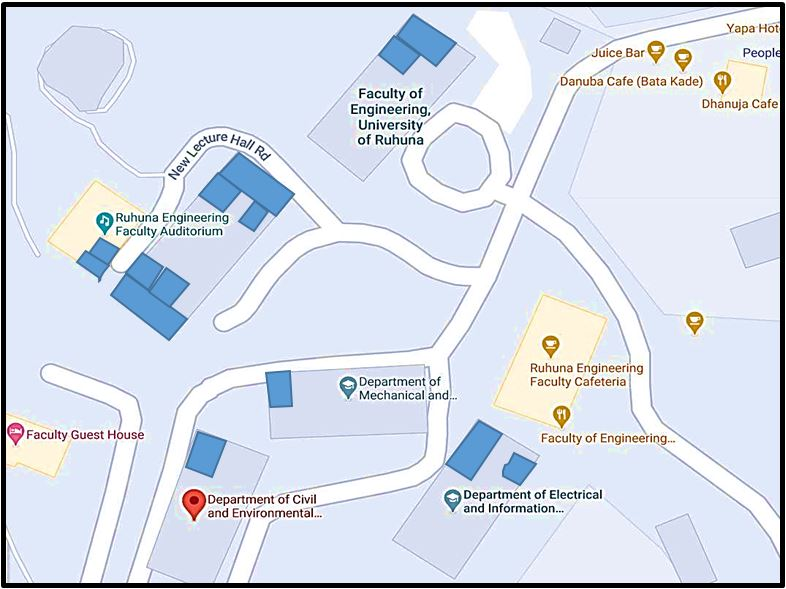
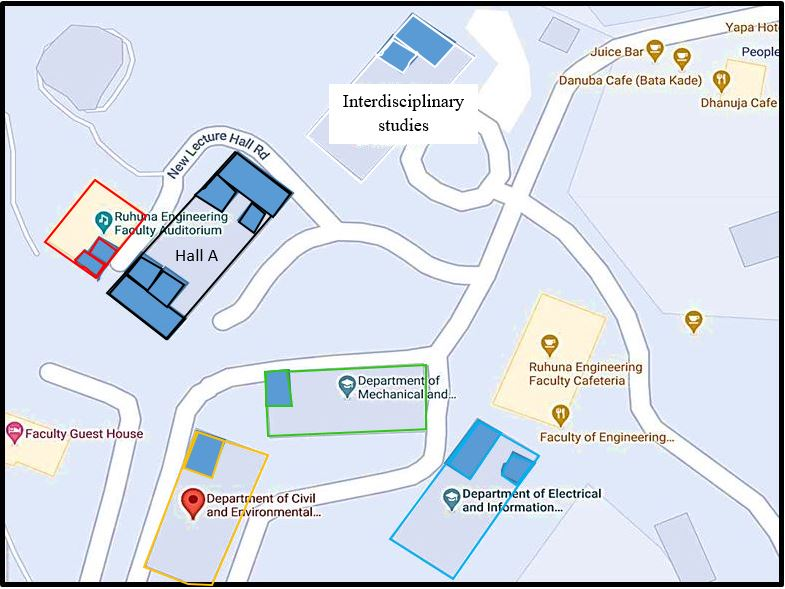
update map2

diff --git a/src/components/Index.js b/src/components/Index.js
@@ -1,40 +1,22 @@
-import React from 'react';
+import React, { Component } from 'react';
 import map from './../images/map.jpg';
 import {Nav} from "./Nav";
-// import $ from 'jquery';
-import Register from "./Register";
+import { Row, Col } from "reactstrap";
+import {dark} from "@material-ui/core/styles/createPalette";
+
 
 function Index() {
-    // const highLight=()=>{
-    //     $('.map').maphilight({
-    //         fillColor: '008800'
-    //     });
-    //     $('#hilightlink').mouseover(function(e) {
-    //         $('#square2').mouseover();
-    //     }).mouseout(function(e) {
-    //         $('#square2').mouseout();
-    //     }).click(function(e) { e.preventDefault(); });
-    //     $('#starlink').click(function(e) {
-    //         e.preventDefault();
-    //         let data = $('#star').data('maphilight') || {};
-    //         data.neverOn = !data.neverOn;
-    //         $('#star').data('maphilight', data);
-    //     });
-    //     $('#star,#starlink2').click(function(e) {
-    //         e.preventDefault();
-    //         let data = $('#star').mouseout().data('maphilight') || {};
-    //         data.alwaysOn = !data.alwaysOn;
-    //         $('#star').data('maphilight', data).trigger('alwaysOn.maphilight');
-    // });
+
 
     return (
         <div >
             <Nav />
             <h1  align="center" >Lecture halls </h1>
-            <img src={map}  align="right"  id='map' useMap="#image-map" alt="map" />
+            <img src={map}  align="right"  id='map' class="map" useMap="#image-map" alt="map" />
 
             <map id="Map-area" name="image-map" >
-                <area  id="1" target=""  alt="NLH1-Ground floor"  title="NLH1-Ground floor" href="" coords="75,261,83,248,107,265,98,275" shape="poly"/>
+
+                <area  id="1" target="" alt="NLH1-Ground floor" title="NLH1-Ground floor" href="" coords="75,261,83,248,107,265,98,275" shape="poly"/>
                 <area id="2"  target="" alt="NLH2-Ground floor" title="NLH2-Ground floor" href="" coords="88,253,99,236,118,251,107,263" shape="poly"/>
                 <area id="3" target="" alt="DO1-Second floor" title="DO1-Second floor" href="" coords="126,272,140,252,163,266,148,288" shape="poly"/>
                 <area id="4" target="" alt="DO2-Second floor" title="DO2-Second floor" href="" coords="200,194,216,172,243,190,225,214" shape="poly"/>
@@ -49,26 +31,34 @@ function Index() {
                 <area id="13" target="" alt="CLR-Third floor" title="CLR-Third floor" href="" coords="184,464,210,478,227,442,199,431" shape="poly"/>
 
             </map>
-            <h4  >View the lecture halls on the map</h4>
-            <ol >
-
-                <p>NLH1-Ground floor <button >view</button></p>
-                <p>NLH2-Ground floor <button >view</button> </p>
-                <p>DO1-Second floor  <button>view</button> </p>
-                <p>DO2-Second floor  <button>view</button> </p>
-                <p>LR1-first floor   <button>view</button> </p>
-                <p>LR2-first floor   <button>view</button> </p>
-                <p>LT1-first floor   <button>view</button> </p>
-                <p>LT2-first floor   <button>view</button> </p>
-                <p>IS-Seminar room   <button>view</button> </p>
-                <p>ELR-Third floor   <button>view</button> </p>
-                <p>ELT-second floor  <button>view</button> </p>
-                <p>MLR-Third         <button>view</button> </p>
-                <p>CLR-Third floor   <button>view</button> </p>
 
 
-            </ol>
-        </div>
+<row >
+    <Col sm={4}  >
+    <div className=" text-left border rounded" color="text-danger">
+        <h6></h6>
+        <p align="center"><ins>FACULTY AUDITORIUM</ins></p>
+        <h6 className="text-danger">*NLH1-Ground floor</h6>
+        <h6 className="text-danger">*NLH2-Ground floor</h6>
+        <p align="center"><ins>HALL A</ins></p>
+        <h6 className="text-lime">*LR1-first floor</h6>
+        <h6 className="text-lime">*LR2-first floor</h6>
+        <h6 className="text-lime">*LT1-first floor</h6>
+        <h6 className="text-lime">*LT2-first floor</h6>
+        <p align="center"><ins>INTERDISCIPLINARY STUDIES</ins></p>
+        <h6 className="text-white">*IS-Seminar room</h6>
+        <p align="center"><ins>MECHANICAL AND MANUFACTURING DEPARTMENT</ins></p>
+        <h6 className="text-success">*MLR-Third</h6>
+        <p align="center"><ins>CIVIL AND ENVIRONMENT DEPARTMENT</ins></p>
+        <h6 className="text-warning">*CLR-Third floor</h6>
+        <p align="center"><ins>ELECTRICAL AND INFORMATION DEPARTMENT</ins></p>
+        <h6 className="text-primary">*ELR-Third floor</h6>
+        <h6 className="text-primary">*ELR-Third floor</h6>
+
+    </div>
+    </Col>
+</row>
+</div>
     );
 }
 

diff --git a/src/App.js b/src/App.js
@@ -3,6 +3,7 @@ import { Route, BrowserRouter } from 'react-router-dom'
 import Login from './components/Login'
 import Register from './components/Register'
 import Index from './components/Index'
+
 import StudentRegisterForm from './components/StudentRegisterForm'
 import LecturerRegisterForm from "./components/registration/LecturerRegisterForm";
 import 'bootstrap/dist/css/bootstrap.min.css';
@@ -37,7 +38,7 @@ class App extends Component {
                     <Route path= '/SubjectList' component={SubjectList}/>
                     <Route path= '/timetable' component={TimeTable}/>
                     <Route path= '/ModuleDrop' component={ModuleDrop}/>
-                    <Route path='/moduleenrole' component={ModuleEnrolement}/>
+                    <Route path='/moduleenrolement' component={ModuleEnrolement}/>
 
                 </div>
             </BrowserRouter>
